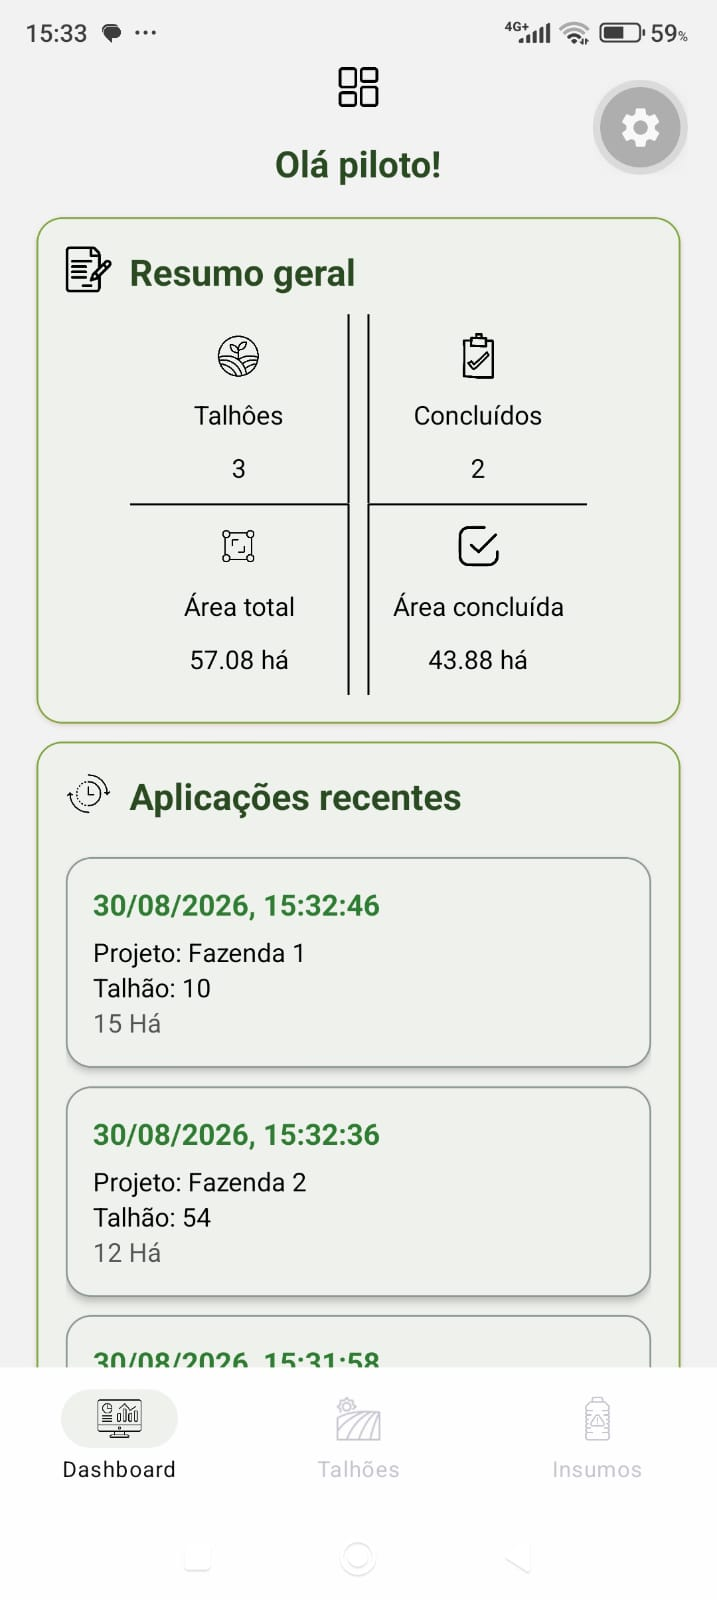
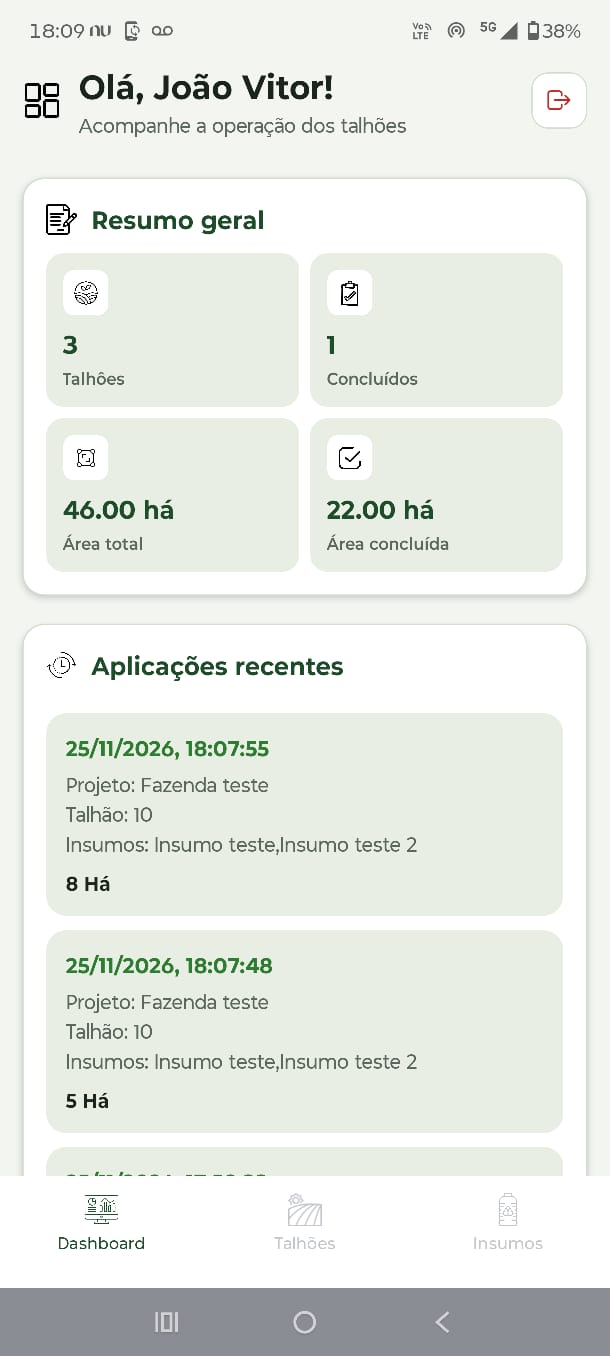
docs: alteração no README do projeto

diff --git a/src/constants/theme.ts b/src/constants/theme.ts
@@ -11,7 +11,7 @@ const palette = {
   border: "#D5DDD2",
   danger: "#C62828",
   success: "#2E7D32",
-  warning: "#E65100",
+  warning: "#b65252",
   green: "#5B8C3E",
   greenGray: "#8d9995",
 };

diff --git a/README.md b/README.md
@@ -1,23 +1,26 @@
-# 🌱 AgroMap
+# 🌱 Talhão360
 
-Aplicativo mobile para **gerenciamento de talhões e operações agrícolas**, desenvolvido com React Native e Expo.
+Aplicativo mobile para **gerenciamento de talhões e operações agrícolas**, desenvolvido com React Native, Expo e TypeScript.
 
 ## 📱 Sobre o projeto
 
-O **AgroAZ** foi desenvolvido para facilitar o acompanhamento das operações realizadas em talhões agrícolas, permitindo registrar informações sobre áreas, insumos, aplicações e produção.
+O **Talhão360** é um aplicativo desenvolvido para facilitar o gerenciamento e o acompanhamento de operações agrícolas, permitindo o controle de talhões, insumos, aplicações e produção.
 
-Esta é a **primeira versão funcional** do projeto.
+O projeto utiliza uma arquitetura **Offline First**, permitindo que o usuário continue utilizando as principais funcionalidades mesmo sem conexão com a internet, sincronizando os dados com o servidor quando a conexão estiver disponível.
 
 ## 🚀 Funcionalidades
 
-* 🌱 Cadastro e gerenciamento de talhões
-* 📐 Controle da área cadastrada
-* 📊 Controle de área produzida e área restante
-* 🧪 Gerenciamento de insumos
-* 🚁 Registro de aplicações de insumos
-* 📋 Histórico de produções
-* ✅ Atualização automática do status dos talhões
-* 💾 Armazenamento local dos dados com SQLite
+- 🌱 Cadastro e gerenciamento de talhões
+- 📐 Controle de área dos talhões
+- 📊 Acompanhamento de área produzida e área restante
+- 🧪 Cadastro e gerenciamento de insumos
+- 🚁 Registro de aplicações de insumos
+- 📋 Histórico de produções
+- ✅ Atualização automática do status dos talhões
+- 📶 Funcionamento offline (Offline First)
+- 🔄 Sincronização de dados com o servidor
+- 🔐 Autenticação de usuários
+- 💾 Armazenamento local com SQLite
 
 ## 📸 Screenshots
 
@@ -35,19 +38,38 @@ Esta é a **primeira versão funcional** do projeto.
 
 ## 🛠 Tecnologias utilizadas
 
-* **React Native**
-* **Expo**
-* **TypeScript**
-* **SQLite**
-* **Expo Router**
+### Frontend
+- React Native
+- Expo
+- TypeScript
+- Expo Router
+- SQLite
+
+### Backend
+- Node.js
+- Express
+- MySQL
+- Sequelize
+- JWT (JSON Web Token)
+- Bcrypt
+
+## 🏗 Arquitetura
+
+O aplicativo utiliza uma arquitetura Offline First:
+
+- **SQLite:** armazenamento local dos dados no dispositivo.
+- **API REST:** comunicação entre o aplicativo e o servidor.
+- **MySQL:** armazenamento persistente dos dados na nuvem.
+- **Sincronização:** envio e recebimento de informações entre o banco local e o servidor.
+
+Essa abordagem permite maior disponibilidade do aplicativo, mesmo em ambientes rurais com conexão limitada ou inexistente.
 
 ## 💾 Banco de dados
 
-O aplicativo utiliza **SQLite** para armazenamento local dos dados.
-
-Principais tabelas:
+Principais tabelas utilizadas:
 
 ```text
+usuarios
 talhoes
 insumos
 aplicacoes
@@ -56,16 +78,14 @@ producoes
 
 ## 🎯 Objetivo
 
-O projeto tem como objetivo colocar em prática conhecimentos adquiridos durante minha formação em **Engenharia de Software**, explorando desenvolvimento mobile, persistência de dados, organização de componentes e construção de interfaces.
+O Talhão360 tem como objetivo aplicar conhecimentos adquiridos durante minha formação em Engenharia de Software, explorando desenvolvimento mobile, desenvolvimento de APIs, bancos de dados relacionais, autenticação, sincronização de dados e construção de interfaces.
 
-O AgroAZ continuará recebendo melhorias e novas funcionalidades conforme o desenvolvimento do projeto avançar.
+O projeto está em constante evolução, recebendo melhorias e novas funcionalidades.
 
 ## 👨💻 Desenvolvedor
 
 **João Vitor Gonçalves**
 
-Projeto desenvolvido para fins de aprendizado e desenvolvimento profissional.
+Desenvolvido como projeto de aprendizado e desenvolvimento profissional.
 
 ---
-
-⭐ Se você gostou do projeto, considere deixar uma estrela no repositório.
